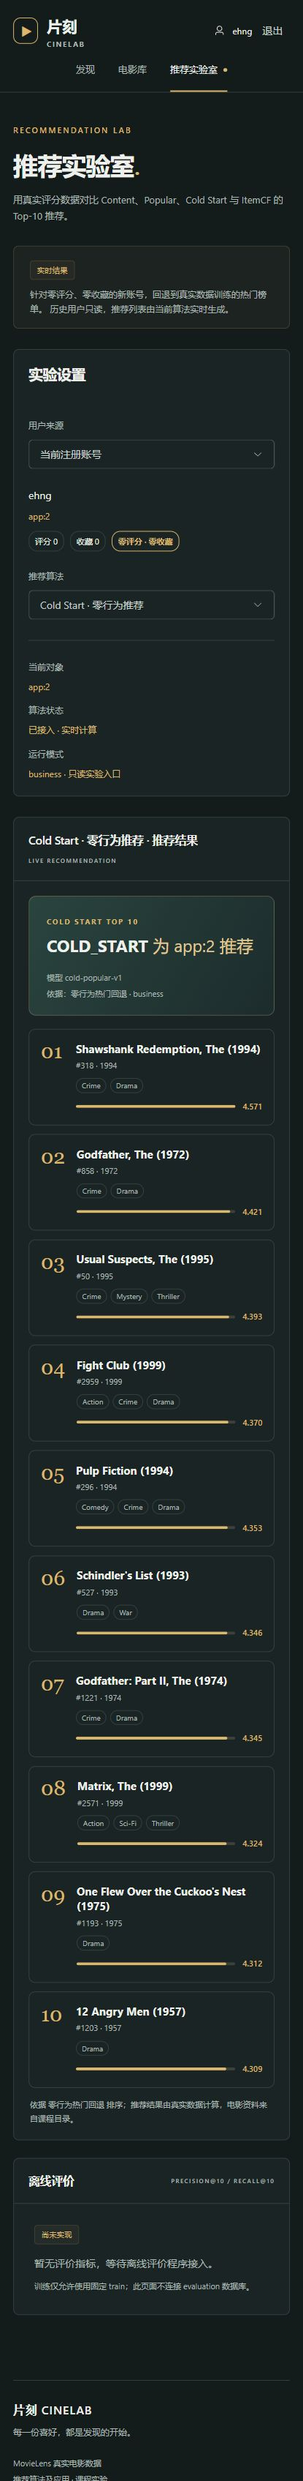
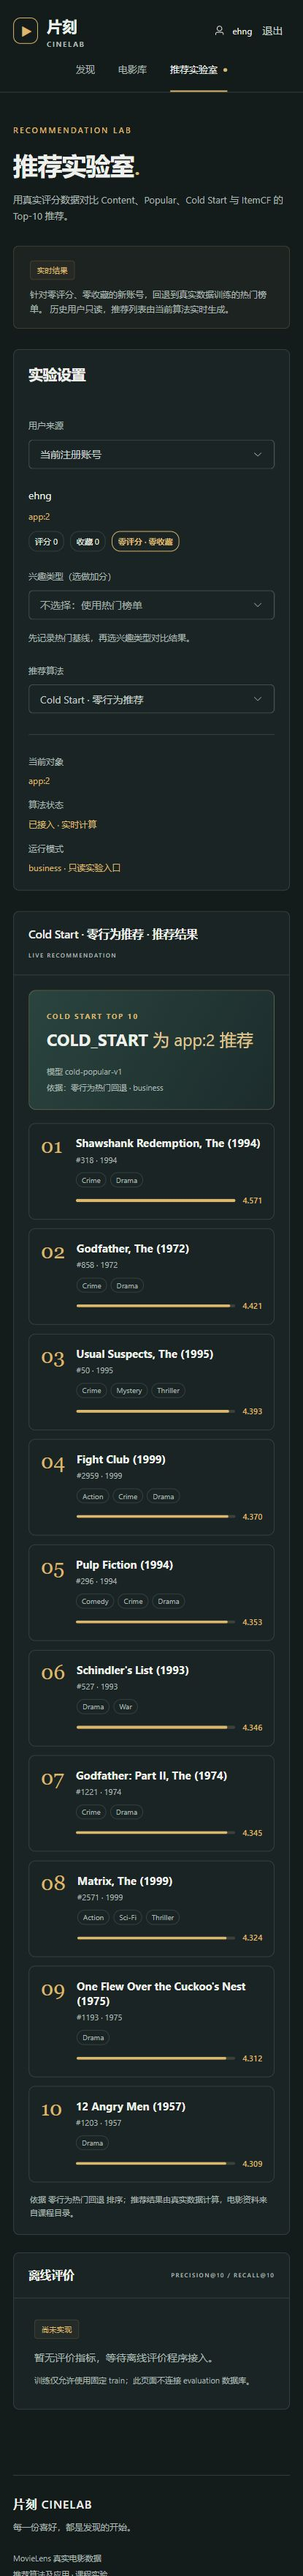
冷启动增加兴趣类型筛选及 Comedy 前后对比验收截图

diff --git a/frontend/src/views/ExperimentsView.vue b/frontend/src/views/ExperimentsView.vue
@@ -11,6 +11,14 @@ import AlgorithmPanel from '../components/AlgorithmPanel.vue'
 
 const route = useRoute(), router = useRouter(), auth = useAuth()
 const source = ref('ml'), algorithm = ref('content'), selected = ref(''), typedUserId = ref('')
+const interestGenre = ref('')
+const interestChoices = [
+  { label: '喜剧 · Comedy', value: 'Comedy' }, { label: '科幻 · Sci-Fi', value: 'Sci-Fi' },
+  { label: '动作 · Action', value: 'Action' }, { label: '冒险 · Adventure', value: 'Adventure' },
+  { label: '剧情 · Drama', value: 'Drama' }, { label: '犯罪 · Crime', value: 'Crime' },
+  { label: '惊悚 · Thriller', value: 'Thriller' }, { label: '奇幻 · Fantasy', value: 'Fantasy' },
+  { label: '爱情 · Romance', value: 'Romance' }, { label: '动画 · Animation', value: 'Animation' },
+]
 const userPage = ref(1), users = useRemote<Page<HistoryUser>>(), ratings = useRemote<Page<Movie>>()
 const ratingPage = ref(1), available = ref<Algorithm[]>([]), registryError = ref<unknown>(null)
 const appActivity = ref<{ ratings: number; favorites: number } | null>(null)
@@ -23,7 +31,8 @@ const algorithmGroups = computed(() => [
 const subject = computed(() => source.value === 'ml' ? (selected.value ? `ml:${selected.value}` : '') : auth.account?.subject_key || '')
 const endpoint = computed(() => !subject.value ? null : source.value === 'ml'
   ? `/demo/history-users/${selected.value}/recommendations/${algorithm.value}`
-  : `/me/recommendations/${algorithm.value}`)
+  : `/me/recommendations/${algorithm.value}${algorithm.value === 'cold_start' && interestGenre.value
+    ? `?genre=${encodeURIComponent(interestGenre.value)}` : ''}`)
 const registered = computed(() => available.value.find(a => a.algorithm === algorithm.value)?.status === 'registered')
 const validTypedUserId = computed(() => /^[1-9][0-9]*$/.test(typedUserId.value.trim()) && Number(typedUserId.value.trim()) <= 5000)
 const algorithmLabels: Record<string, string> = {
@@ -35,7 +44,9 @@ const algorithmExplanation = computed(() => ({
   popular: '根据真实历史评分数量和平均分计算热门榜单。',
   content: '根据电影类型与该用户的历史偏好计算推荐。',
   itemcf: '根据共同获得高评分的电影计算相似物品，再结合该用户的评分历史。',
-  cold_start: '针对零评分、零收藏的新账号，回退到真实数据训练的热门榜单。',
+  cold_start: interestGenre.value
+    ? `针对零行为账号，按 ${interestGenre.value} 兴趣筛选真实热门电影。清除兴趣即可对比原始榜单。`
+    : '针对零评分、零收藏的新账号，回退到真实数据训练的热门榜单。',
 }[algorithm.value] || '选择算法查看实时推荐结果。'))
 
 function selectAlgorithm() {
@@ -58,6 +69,8 @@ function updateUrl() {
   void router.replace({ path: '/experiments', query: {
     source: source.value, algorithm: algorithm.value,
     ...(source.value === 'ml' && selected.value ? { user: selected.value } : {}),
+    ...(source.value === 'app' && algorithm.value === 'cold_start' && interestGenre.value
+      ? { genre: interestGenre.value } : {}),
   } })
 }
 function applyUserId() {
@@ -95,6 +108,8 @@ watch(() => route.query, () => {
   selected.value = typeof route.query.user === 'string' && /^[1-9][0-9]*$/.test(route.query.user)
     ? route.query.user : ''
   typedUserId.value = selected.value
+  interestGenre.value = typeof route.query.genre === 'string' &&
+    interestChoices.some(choice => choice.value === route.query.genre) ? route.query.genre : ''
 }, { immediate: true })
 watch(() => [selected.value, source.value], () => { ratingPage.value = 1; void fetchRatings() })
 watch(() => auth.account?.account_id, () => { void fetchAppActivity() }, { immediate: true })
@@ -150,6 +165,13 @@ void fetchUsers(); void fetchRegistry(); void fetchEvaluation(); void fetchRatin
           <span v-else-if="appActivityError">行为数量暂不可用</span>
           <RouterLink v-if="!auth.account" to="/login" class="text-link">前往登录 →</RouterLink>
         </div>
+        <template v-if="source === 'app' && algorithm === 'cold_start'">
+          <label for="interest-genre">兴趣类型（选做加分）</label>
+          <el-select id="interest-genre" v-model="interestGenre" clearable placeholder="不选择：使用热门榜单" @change="updateUrl">
+            <el-option v-for="choice in interestChoices" :key="choice.value" :label="choice.label" :value="choice.value" />
+          </el-select>
+          <p class="form-hint">{{ interestGenre ? `已选择 ${interestGenre}，当前只推荐该类型电影；清除后恢复热门基线。` : '先记录热门基线，再选兴趣类型对比结果。' }}</p>
+        </template>
         <label for="algorithm-select">推荐算法</label>
         <el-select id="algorithm-select" v-model="algorithm" @change="selectAlgorithm">
           <el-option-group v-for="group in algorithmGroups" :key="group.label" :label="group.label">

diff --git a/frontend/src/components/AlgorithmPanel.vue b/frontend/src/components/AlgorithmPanel.vue
@@ -17,7 +17,8 @@ const films = ref<Record<string, Movie>>({})
 const highestScore = computed(() => Math.max(0, ...result.value?.items.map(item => item.score ?? 0) || []))
 const resultMethod = computed(() => ({
   popular: '评分数量与平均分', content: '电影类型与历史偏好',
-  itemcf: '相似电影与评分历史', cold_start: '零行为热门回退',
+  itemcf: '相似电影与评分历史', cold_start: result.value?.items[0]?.recall_sources?.includes('genre_filtered_popular')
+    ? '所选兴趣类型与热门排序' : '零行为热门回退',
 }[result.value?.algorithm || ''] || '真实评分数据'))
 const resultScope = computed(() => result.value?.algorithm === 'popular' ? 'GLOBAL TOP'
   : result.value?.algorithm === 'cold_start' ? 'COLD START TOP' : 'PERSONALIZED TOP')

diff --git a/frontend/src/types.ts b/frontend/src/types.ts
@@ -12,5 +12,6 @@ export interface Algorithm { algorithm: string; status: string }
 export interface AlgorithmResult {
   status: string; algorithm: string; model_version: string | null; batch_id: string | null
   dataset_version: string; split_version: string; runtime_mode: string
-  items: { movie_id: string; rank: number; algorithm: string; model_version: string; score: number | null }[]
+  items: { movie_id: string; rank: number; algorithm: string; model_version: string;
+    score: number | null; recall_sources?: string[] | null }[]
 }

diff --git a/backend/app/experiments.py b/backend/app/experiments.py
@@ -16,10 +16,14 @@ router = APIRouter(tags=["学生算法预留边界"])
 
 class RecommendationQuery(Input):
     limit: int = Field(default=10, ge=1, le=50)
+    genre: str | None = Field(default=None, min_length=2, max_length=32, pattern=r"^[A-Za-z-]+$")
 
 
-def invoke(algorithm: Algorithm, kind: str, uid: int, limit: int):
-    request = RecommendationRequest(kind, uid, limit, "business", DATASET, SPLIT)
+def invoke(algorithm: Algorithm, kind: str, uid: int, limit: int, genre: str | None = None):
+    if genre and algorithm != Algorithm.cold_start:
+        raise APIError(400, "INTEREST_ONLY_FOR_COLD_START", "兴趣类型仅用于冷启动推荐")
+    request = RecommendationRequest(kind, uid, limit, "business", DATASET, SPLIT,
+                                    (genre,) if genre else ())
     try:
         return recommend(algorithm, request)
     except AlgorithmNotImplemented:
@@ -28,7 +32,8 @@ def invoke(algorithm: Algorithm, kind: str, uid: int, limit: int):
             "dataset_version": DATASET, "split_version": SPLIT, "runtime_mode": "business",
             "model_version": None, "batch_id": None, "items": []}) from None
     except ContractError as exc:
-        status = (400 if exc.code in {"COLD_START_REQUIRES_APP", "COLD_START_REQUIRES_ZERO_BEHAVIOR"}
+        status = (400 if exc.code in {"COLD_START_REQUIRES_APP", "COLD_START_REQUIRES_ZERO_BEHAVIOR",
+                                    "COLD_START_INTEREST_INVALID", "REQUEST_CONTEXT_INVALID"}
                   else 503 if exc.code in {"MODEL_BINDING_INVALID", "DATA_IDENTITY_INVALID", "DATA_MODE_INVALID"} else 500)
         raise APIError(status,
             exc.code, str(exc)) from None
@@ -47,7 +52,7 @@ def evaluations():
 
 @router.get("/me/recommendations/{algorithm}", response_model=RecommendationResult)
 def my_recommendations(algorithm: Algorithm, actor: ActorDependency, query: Annotated[RecommendationQuery, Query()]):
-    return invoke(algorithm, "app", actor.account_id, query.limit)
+    return invoke(algorithm, "app", actor.account_id, query.limit, query.genre)
 
 
 @router.get("/demo/history-users/{ml_user_id}/recommendations/{algorithm}", response_model=RecommendationResult)
@@ -57,4 +62,4 @@ def history_recommendations(ml_user_id: IdPath, algorithm: Algorithm, request: R
     with request.app.state.db.connection() as conn:
         if conn.execute(text("SELECT ml_user_id FROM history_users WHERE ml_user_id=:id"), {"id": uid}).first() is None:
             raise APIError(404, "HISTORY_USER_NOT_FOUND", "历史匿名用户不存在")
-    return invoke(algorithm, "ml", uid, query.limit)
+    return invoke(algorithm, "ml", uid, query.limit, query.genre)

diff --git a/recommender/student/build_experiment2.py b/recommender/student/build_experiment2.py
@@ -27,7 +27,7 @@ MOVIE_BITS = 20
 
 
 def _write_model(data: FrozenData, algorithm: str, version: str, artifact: dict,
-                 parameters: dict) -> Path:
+                 parameters: dict, extra_features: tuple[str, ...] = ()) -> Path:
     directory = ROOT / "models" / "business" / version
     directory.mkdir(parents=True, exist_ok=True)
     artifact_path = directory / "model.json"
@@ -37,7 +37,8 @@ def _write_model(data: FrozenData, algorithm: str, version: str, artifact: dict,
         "dataset_version": DATASET, "split_version": SPLIT, "schema_version": SCHEMA,
         "manifest_sha256": MANIFEST_SHA,
         "training_files": {TRAINING: data.manifest["files"][TRAINING]["sha256"]},
-        "feature_files": {"training-catalog.csv": data.manifest["files"]["training-catalog.csv"]["sha256"]},
+        "feature_files": {name: data.manifest["files"][name]["sha256"]
+                          for name in ("training-catalog.csv", *extra_features)},
         "artifacts": {"model.json": sha256(artifact_path)},
         "parameters": parameters,
         "tool_versions": {"python": "3.12", "implementation": "cinelab-experiment2-v1"},
@@ -94,9 +95,13 @@ def fit() -> tuple[Path, Path, Path]:
     popular = _write_model(data, "popular", POPULAR_VERSION, popular_artifact,
                            {"score": "Bayesian mean + log rating-count bonus", "prior_mean": 3.5,
                             "prior_count": 100, "count_bonus": 0.18})
+    movie_genres = {row["movie_id"]: sorted(set(row["genres"].split("|")) - {"(no genres listed)", ""})
+                    for row in data.rows("movies.csv") if row["movie_id"] in catalog}
+    require(set(movie_genres) == catalog, "冷启动电影类型与目录不一致", "DATA_IDENTITY_INVALID")
     cold = _write_model(data, "cold_start", COLD_VERSION,
-                        {"model_version": COLD_VERSION, "ranked": ranked},
-                        {"strategy": "zero-behavior popular fallback", "popular_model": POPULAR_VERSION})
+                        {"model_version": COLD_VERSION, "ranked": ranked, "genres": movie_genres},
+                        {"strategy": "zero-behavior popular fallback; optional genre-filtered popular",
+                         "popular_model": POPULAR_VERSION}, extra_features=("movies.csv",))
 
     positive_users: Counter[int] = Counter()
     pairs: dict[int, list[float | int]] = {}

diff --git a/recommender/student/cold_start.py b/recommender/student/cold_start.py
@@ -1,12 +1,24 @@
 """Zero-behavior account fallback to the learned popularity ranking."""
 
+import json
+from functools import lru_cache
 from pathlib import Path
 
 from recommender.contracts import Algorithm, RecommendationRequest, RecommendationResult
-from recommender.data import require
-from .popular import load_ranking, ranked_result
+from recommender.data import ContractError, require
+from .popular import ranked_result
 
 MODEL_VERSION = "cold-popular-v1"
+
+
+@lru_cache(maxsize=1)
+def _model(path: str) -> tuple[list[list], dict[str, list[str]]]:
+    try:
+        artifact = json.loads(Path(path).read_text(encoding="utf-8"))
+        require(artifact["model_version"] == MODEL_VERSION, "冷启动模型版本不符", "MODEL_BINDING_INVALID")
+        return artifact["ranked"], artifact["genres"]
+    except (OSError, KeyError, ValueError, TypeError) as exc:
+        raise ContractError("MODEL_BINDING_INVALID", "冷启动模型工件无法读取") from exc
 
 
 class ColdStartProvider:
@@ -21,6 +33,13 @@ class ColdStartProvider:
         history = read_history(request)
         require(not history.ratings and not history.favorite_movie_ids,
                 "冷启动实验要求零评分、零收藏账号", "COLD_START_REQUIRES_ZERO_BEHAVIOR")
-        ranking = load_ranking(str(self.model_manifest_path.parent / "model.json"), MODEL_VERSION)
+        ranking, genres = _model(str(self.model_manifest_path.parent / "model.json"))
+        if request.interest_genres:
+            known = {genre for values in genres.values() for genre in values}
+            require(set(request.interest_genres) <= known,
+                    "电影目录中没有选定的兴趣类型", "COLD_START_INTEREST_INVALID")
+            ranking = [row for row in ranking
+                       if set(request.interest_genres) & set(genres[row[0]])]
         return ranked_result(request, Algorithm.cold_start, MODEL_VERSION, ranking,
-                             "zero_behavior_popular_fallback")
+                             "genre_filtered_popular" if request.interest_genres
+                             else "zero_behavior_popular_fallback")

diff --git a/recommender/validation.py b/recommender/validation.py
@@ -62,6 +62,10 @@ def check_request(request):
             "推荐输入身份、数量或版本非法", "REQUEST_CONTEXT_INVALID")
     require(request.runtime_mode != "evaluation" or request.subject_kind == "ml",
             "离线评价仅允许冻结ml用户", "REQUEST_CONTEXT_INVALID")
+    require(type(request.interest_genres) is tuple and len(request.interest_genres) <= 3 and
+            all(type(genre) is str and bool(re.fullmatch(r"[A-Za-z-]{2,32}", genre))
+                for genre in request.interest_genres),
+            "兴趣类型格式非法", "REQUEST_CONTEXT_INVALID")
 
 
 def check_provider(provider):

diff --git a/recommender/contracts.py b/recommender/contracts.py
@@ -23,6 +23,7 @@ class RecommendationRequest:
     runtime_mode: Literal["business", "evaluation"]
     dataset_version: str
     split_version: str
+    interest_genres: tuple[str, ...] = ()
 
 
 class RecommendationItem(BaseModel):

diff --git a/docs/experiment2-recommendation.md b/docs/experiment2-recommendation.md
@@ -18,6 +18,10 @@ py -3 -m recommender.check model models/business/itemcf-cobehavior-v1/manifest.j
 
 只接受已注册的业务账号。每次请求都从业务库读取当前账号评分和收藏；若不为零则拒绝冷启动实验。零行为时使用上述真实评分训练的 Popular 排名回退，不创建模拟用户偏好，也不内置电影 ID。实验账号 `ehng`（`app:2`）在截图时评分 0、收藏 0。
 
+**选做兴趣类型：** 在实验室的 Cold Start 设置里可选择 Comedy、Sci-Fi 等电影类型。选中后，请求携带 `genre` 参数，后端在同一真实热门榜单中筛出课程 `movies.csv` 标注该类型的电影，再返回按热门分数排序的 Top-10；清除选项恢复原榜单。类型和电影特征来自已校验的冻结数据，没有预置推荐清单。零评分、零收藏的要求始终保留。
+
+本机对 `app:2` 的实际验证：未选择兴趣时 Top-10 为 `318,858,50,2959,296,527,1221,2571,1193,1203`；选择 Comedy 后为 `296,1136,750,2324,1197,356,608,202439,1234,4973`，两组仅有 1 部重合。
+
 ### ItemCF
 
 以至少 4.0 分为正反馈，训练时每个历史用户最多保留按评分和时间排序的 30 部最强正反馈电影，避免活跃用户主导配对。统计电影对在真实用户中的加权共现次数；单用户权重按其正反馈数量的平方根缩减。相似度用两部电影各自的正反馈用户数归一化，并按共现支持度收缩；低于 2 个共同用户的电影对不保留，每部电影最多保存 80 个邻居。
@@ -34,5 +38,6 @@ py -3 -m recommender.check model models/business/itemcf-cobehavior-v1/manifest.j
 - `reports/experiment2-cold-ehng.jpg`：账号 `ehng` 的 Cold Start Top-10，显示评分 0、收藏 0。
 - `reports/experiment2-itemcf-ml14.jpg`：历史用户 `ml14` 的 ItemCF Top-10。
 - `reports/experiment2-itemcf-ml55.jpg`：历史用户 `ml55` 的 ItemCF Top-10。
+- `reports/experiment2-cold-comedy.jpg`：同一零行为账号选择 Comedy 后的 Top-10，与未选择兴趣时的截图对比。
 
 上述截图来自实际运行的 `http://127.0.0.1:8080/experiments`，不是示意图。新机器必须先按课程环境指南导入数据和 Docker 镜像、生成本地模型，再构建学生 API/Web 镜像。镜像、数据库、密钥与本地运行设置不进入仓库。
